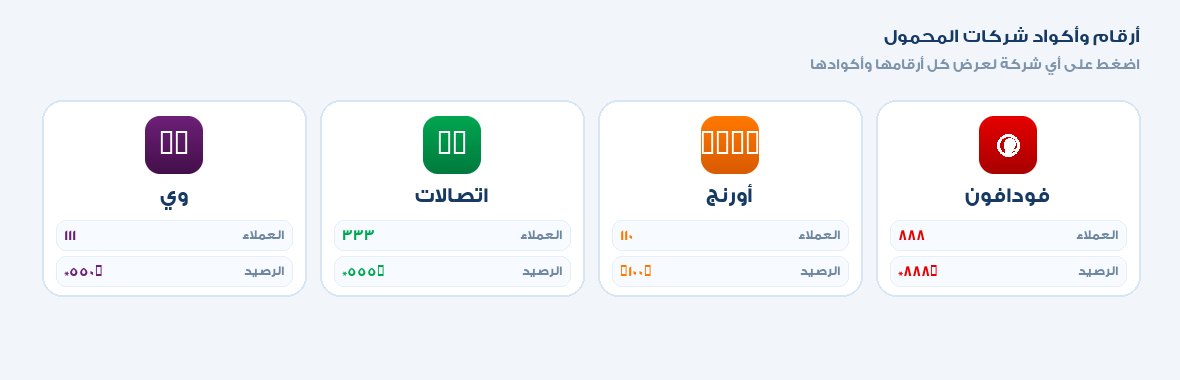
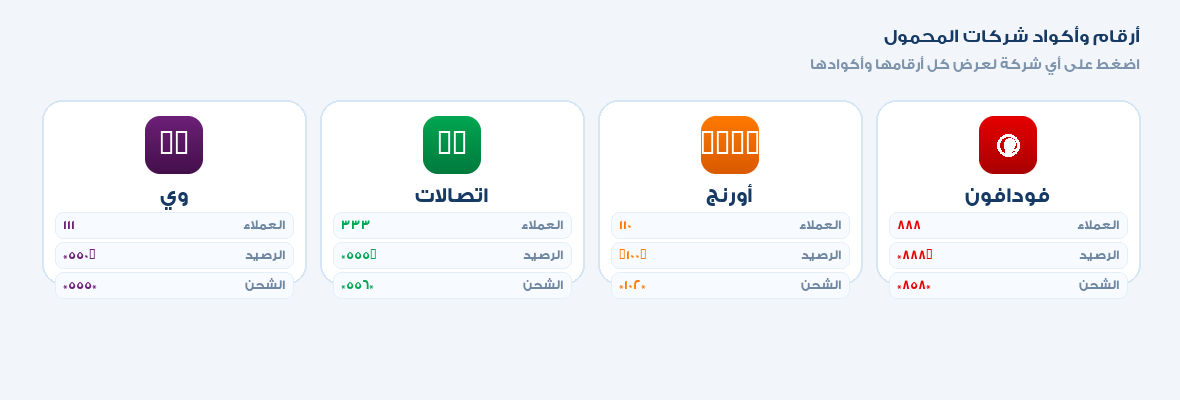
تحسين صف شركات المحمول: ٣ شرائح داخل كل زر (عملاء/رصيد/شحن) + توحيد ارتفاع الصفين

diff --git a/src/app/janzour.css b/src/app/janzour.css
@@ -1460,7 +1460,7 @@ html.dark .featured-banner-status { background: #142b44; border-color: #274a6e; 
 /* ===== الكروت الثلاثة (الصيدلية والعيادة المناوبة الآن + أرقام تهمك في جنزور + الخدمات السريعة) ===== */
 .feature-cards-section { margin-top: 26px; }
 .feature-cards-grid.main-category-grid { display: grid; grid-template-columns: repeat(3, minmax(0, 1fr)) !important; gap: 14px; }
-.feature-card-tile.category-tile { display: flex; flex-direction: column; align-items: center; justify-content: space-between; min-height: 162px; padding: 18px 10px 15px; border-radius: 18px; cursor: pointer; font-family: inherit; text-align: center; }
+.feature-card-tile.category-tile { display: flex; flex-direction: column; align-items: center; justify-content: space-between; min-height: 184px; padding: 16px 10px 14px; border-radius: 18px; cursor: pointer; font-family: inherit; text-align: center; }
 .feature-card-tile.category-tile .category-icon { margin-block: auto; }
 .feature-card-title { display: flex; flex-direction: column; align-items: center; justify-content: center; gap: 2px; width: 100%; margin-top: 6px; text-align: center; white-space: normal !important; line-height: 1.45 !important; }
 .feature-card-title > span { display: block; width: 100%; text-align: center; }
@@ -1468,7 +1468,7 @@ html.dark .featured-banner-status { background: #142b44; border-color: #274a6e; 
 .feature-card-title > span:last-child { font-size: 13.5px; font-weight: 800; color: var(--category-color, #0878c9); }
 @media(max-width:600px) {
   .feature-cards-grid.main-category-grid { grid-template-columns: repeat(3, minmax(0, 1fr)) !important; gap: 8px; }
-  .feature-card-tile.category-tile { min-height: 136px; padding: 13px 6px 11px; border-radius: 15px; gap: 8px; }
+  .feature-card-tile.category-tile { min-height: 140px; padding: 13px 6px 11px; border-radius: 15px; gap: 8px; }
   .feature-card-tile.category-tile .category-icon { width: 58px; height: 58px; border-radius: 18px; }
   .feature-card-tile.category-tile .main-category-art { width: 58px; height: 58px; }
   .feature-card-title > span:first-child { font-size: 12px; }
@@ -1485,7 +1485,7 @@ html.dark .feature-card-title > span:last-child { color: #8ac8ff; }
 .telecom-section-head h2 svg { color: #0b7fd4; }
 .telecom-section-head p { margin: 0; color: #7d94ac; font-size: 11px; font-weight: 600; }
 .telecom-cards-grid { display: grid; grid-template-columns: repeat(4, minmax(0, 1fr)); gap: 14px; }
-.telecom-tile.category-tile { display: flex; flex-direction: column; align-items: center; justify-content: flex-start; gap: 8px; min-height: 162px; padding: 14px 9px 12px; border-radius: 18px; cursor: pointer; font-family: inherit; text-align: center; }
+.telecom-tile.category-tile { display: flex; flex-direction: column; align-items: center; justify-content: flex-start; gap: 7px; min-height: 184px; padding: 14px 9px 12px; border-radius: 18px; cursor: pointer; font-family: inherit; text-align: center; }
 .telecom-logo-wrap { display: grid; place-items: center; margin-top: 2px; filter: drop-shadow(0 6px 12px #0b2b4a1f); }
 .telecom-logo { position: relative; display: grid; place-items: center; flex: none; width: var(--logo-size, 56px); height: var(--logo-size, 56px); overflow: hidden; border-radius: calc(var(--logo-size, 56px) * .26); background: linear-gradient(150deg, var(--category-color, #0878c9) 0%, var(--brand-deep, #075db7) 100%); box-shadow: 0 8px 18px #0b2b4a29, inset 0 1px 0 #ffffff4d; color: #fff; }
 .telecom-logo::after { content: ""; position: absolute; inset: 0 0 auto; height: 45%; background: linear-gradient(180deg, #ffffff38, transparent); pointer-events: none; }
@@ -1496,8 +1496,8 @@ html.dark .feature-card-title > span:last-child { color: #8ac8ff; }
 .telecom-logo.is-etisalat .telecom-wordmark { font-size: calc(var(--logo-size, 56px) * .38); letter-spacing: -1px; }
 .telecom-title { margin-top: 0 !important; }
 .telecom-title > span:first-child { font-size: 14.5px !important; color: #163a63; }
-.telecom-quick { display: grid; gap: 4px; width: 100%; margin-top: auto; }
-.telecom-quick-row { display: flex; align-items: center; justify-content: space-between; gap: 6px; padding: 3px 7px; border: 1px solid #e6eff8; border-radius: 9px; background: #f7fbff; }
+.telecom-quick { display: grid; gap: 3px; width: 100%; margin-top: auto; }
+.telecom-quick-row { display: flex; align-items: center; justify-content: space-between; gap: 6px; padding: 2px 7px; border: 1px solid #e6eff8; border-radius: 8px; background: #f7fbff; }
 .telecom-quick-row small { color: #7087a1; font-size: 10px; font-weight: 700; }
 .telecom-quick-row b { color: var(--category-color, #0878c9); font-size: 11.5px; font-weight: 900; letter-spacing: .2px; direction: ltr; unicode-bidi: isolate; font-variant-numeric: tabular-nums; }
 .telecom-tile:hover .telecom-quick-row { border-color: color-mix(in srgb, var(--category-color) 30%, #e6eff8); background: #fff; }
@@ -1551,7 +1551,7 @@ html.dark .telecom-note { border-color: #24405c; background: #0f2133; color: #93
 }
 @media (max-width: 600px) {
   .telecom-cards-grid { grid-template-columns: repeat(2, minmax(0, 1fr)); gap: 9px; }
-  .telecom-tile.category-tile { min-height: 136px; padding: 11px 8px 10px; border-radius: 15px; gap: 7px; }
+  .telecom-tile.category-tile { min-height: 152px; padding: 11px 8px 10px; border-radius: 15px; gap: 6px; }
   .telecom-logo { --logo-size: 48px; }
   .telecom-title > span:first-child { font-size: 13px !important; }
   .telecom-section-head h2 { font-size: 13px; }

diff --git a/src/lib/telecom.ts b/src/lib/telecom.ts
@@ -36,7 +36,7 @@ export type TelecomOperator = {
   colorDeep: string;
   /** جملة قصيرة تظهر في نافذة الشركة. */
   summary: string;
-  /** أهم رقمين يظهران داخل الزر نفسه. */
+  /** أهم ثلاثة أرقام/أكواد تظهر على الزر نفسه: العملاء، الرصيد، الشحن. */
   quick: { label: string; row: TelecomRow }[];
   groups: TelecomGroup[];
 };
@@ -54,6 +54,7 @@ export const telecomOperators: TelecomOperator[] = [
     quick: [
       { label: "العملاء", row: { label: "خدمة عملاء فودافون", code: "888", kind: "number" } },
       { label: "الرصيد", row: { label: "الاستعلام عن الرصيد", code: "*888#", kind: "ussd" } },
+      { label: "الشحن", row: { label: "شحن كارت الرصيد", code: "*858*", kind: "ussd" } },
     ],
     groups: [
       {
@@ -110,6 +111,7 @@ export const telecomOperators: TelecomOperator[] = [
     quick: [
       { label: "العملاء", row: { label: "خدمة عملاء أورنج", code: "110", kind: "number" } },
       { label: "الرصيد", row: { label: "قائمة الرصيد والخدمات", code: "#100#", kind: "ussd" } },
+      { label: "الشحن", row: { label: "شحن كارت الرصيد", code: "*102*", kind: "ussd" } },
     ],
     groups: [
       {
@@ -163,6 +165,7 @@ export const telecomOperators: TelecomOperator[] = [
     quick: [
       { label: "العملاء", row: { label: "خدمة عملاء اتصالات", code: "333", kind: "number" } },
       { label: "الرصيد", row: { label: "الاستعلام عن الرصيد", code: "*555#", kind: "ussd" } },
+      { label: "الشحن", row: { label: "شحن كارت الرصيد", code: "*556*", kind: "ussd" } },
     ],
     groups: [
       {
@@ -218,6 +221,7 @@ export const telecomOperators: TelecomOperator[] = [
     quick: [
       { label: "العملاء", row: { label: "خدمة عملاء وي", code: "111", kind: "number" } },
       { label: "الرصيد", row: { label: "الاستعلام عن الرصيد", code: "*550#", kind: "ussd" } },
+      { label: "الشحن", row: { label: "شحن كارت الرصيد", code: "*555*", kind: "ussd" } },
     ],
     groups: [
       {
@@ -233,6 +237,7 @@ export const telecomOperators: TelecomOperator[] = [
         icon: "wallet",
         rows: [
           { label: "الاستعلام عن الرصيد", code: "*550#", kind: "ussd" },
+          { label: "شحن كارت الرصيد", code: "*555*", kind: "ussd", note: "ثم أدخل رقم الكارت" },
           { label: "تحويل الرصيد", code: "*551#", kind: "ussd", note: "ثم اتبع القائمة: رقم المستلم ثم المبلغ" },
           { label: "سلفني", code: "*504#", kind: "ussd" },
           { label: "كلمني", code: "*515*", kind: "ussd", note: "ثم رقم الهاتف المطلوب" },
